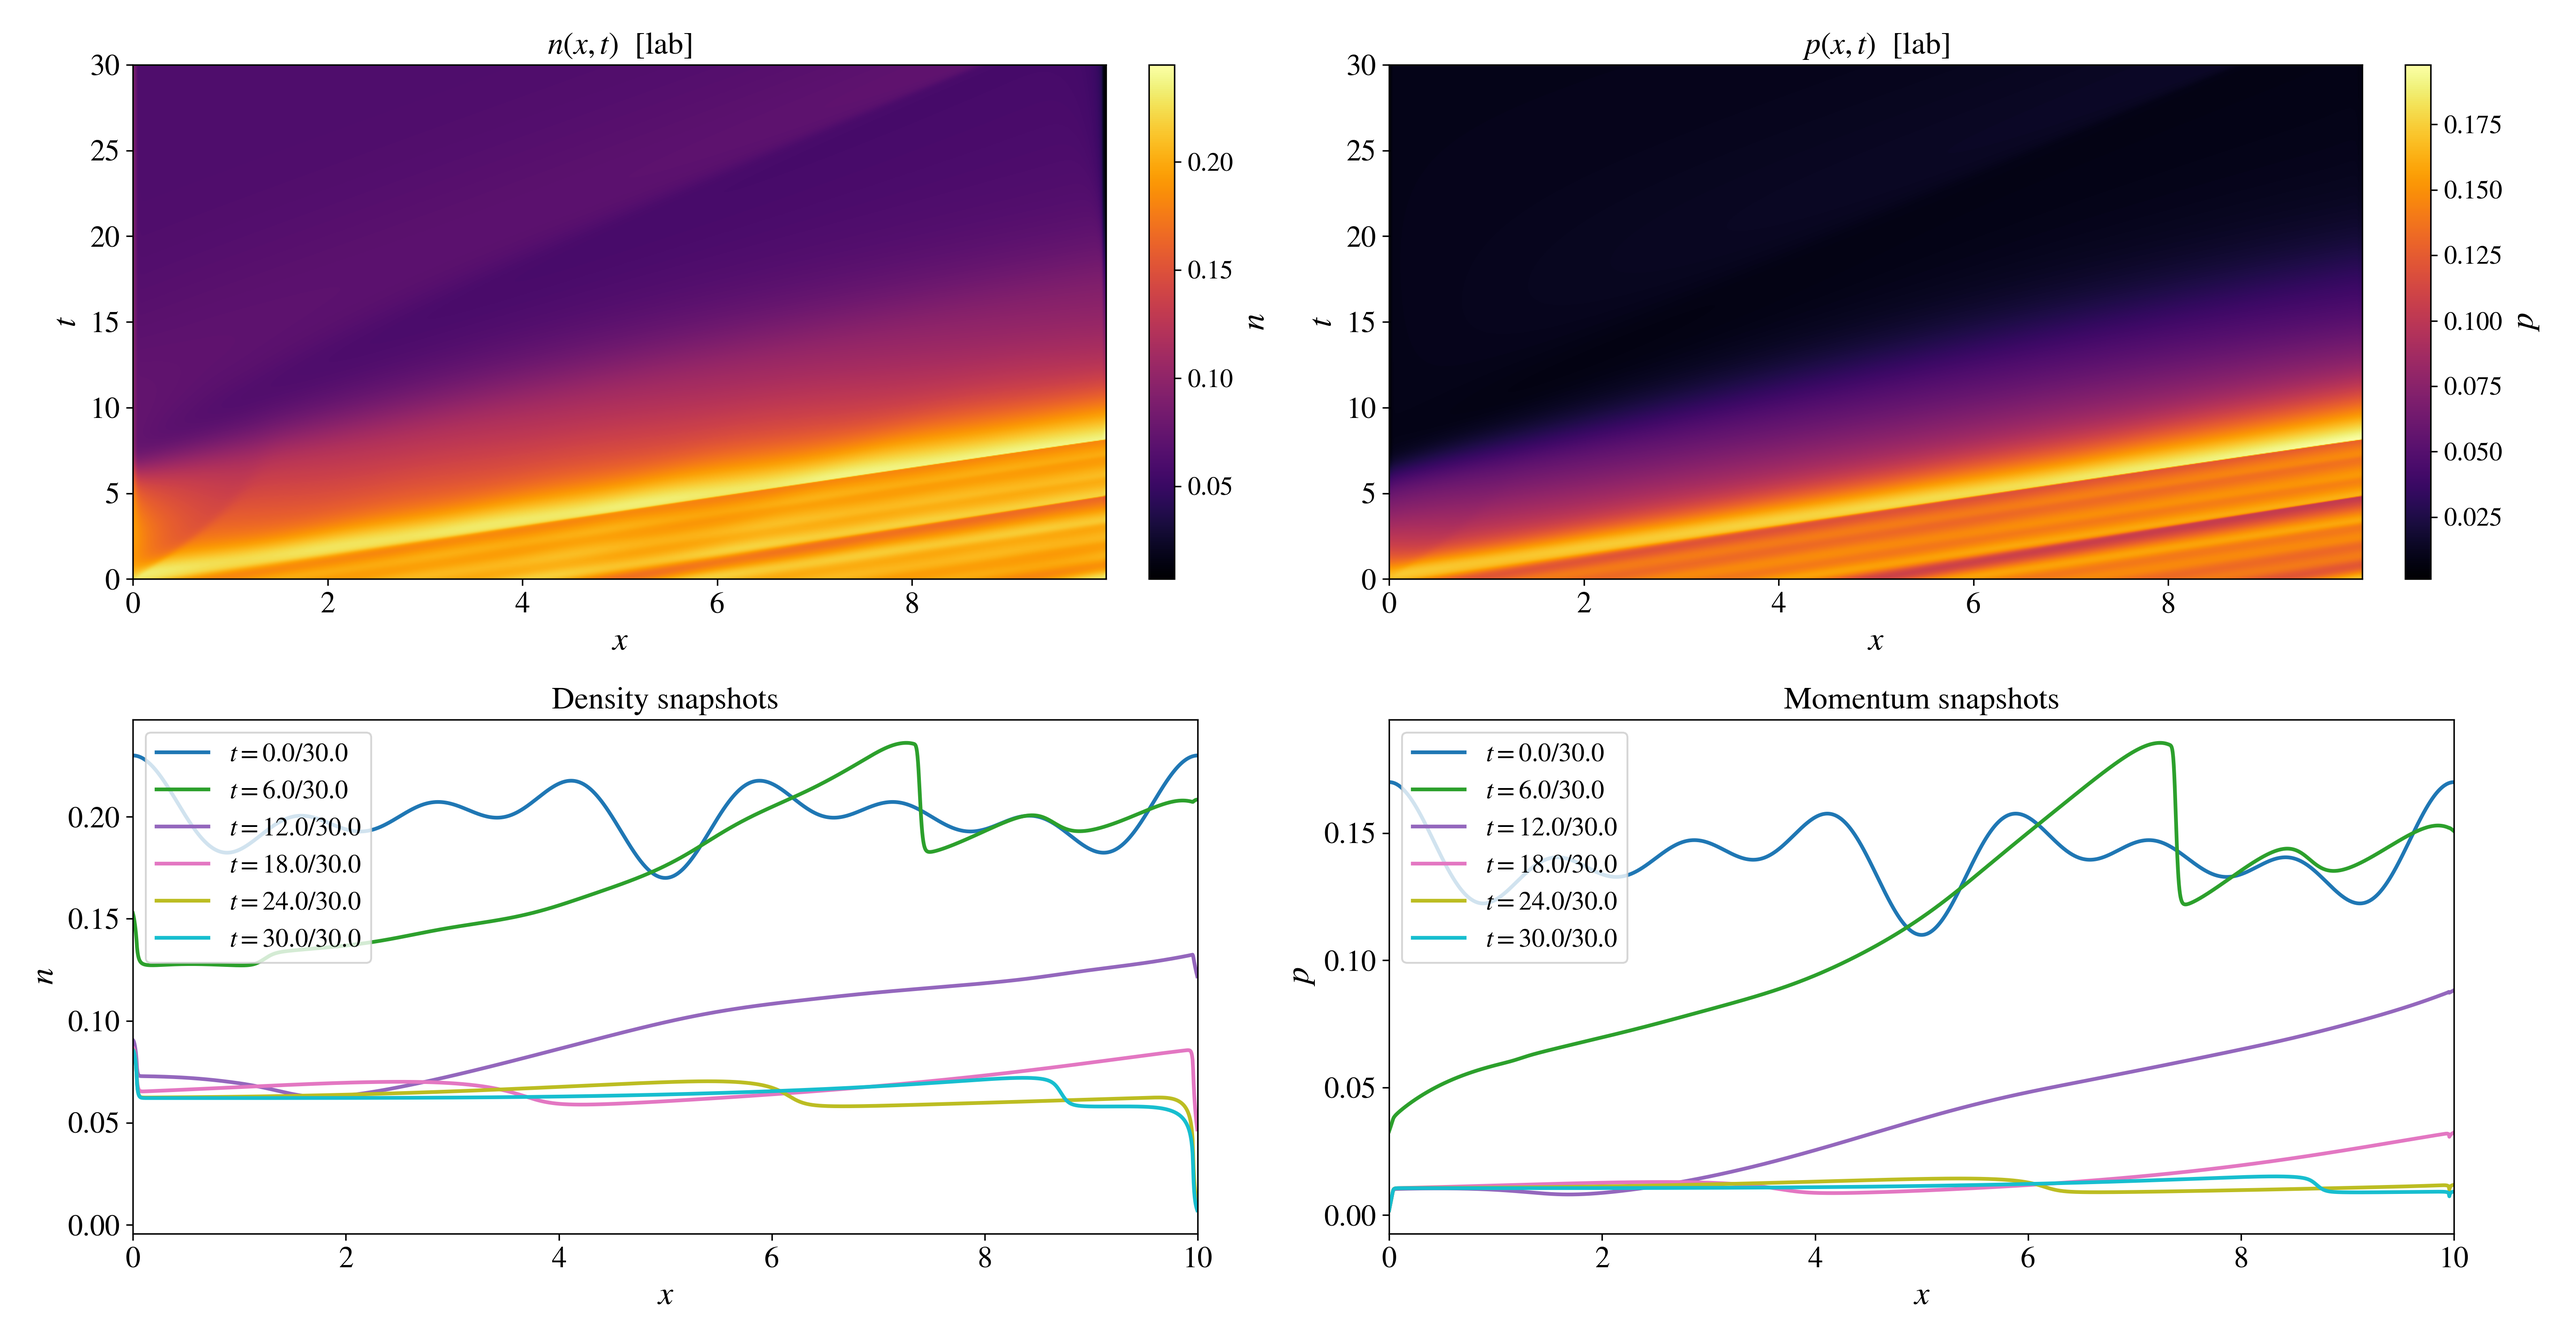
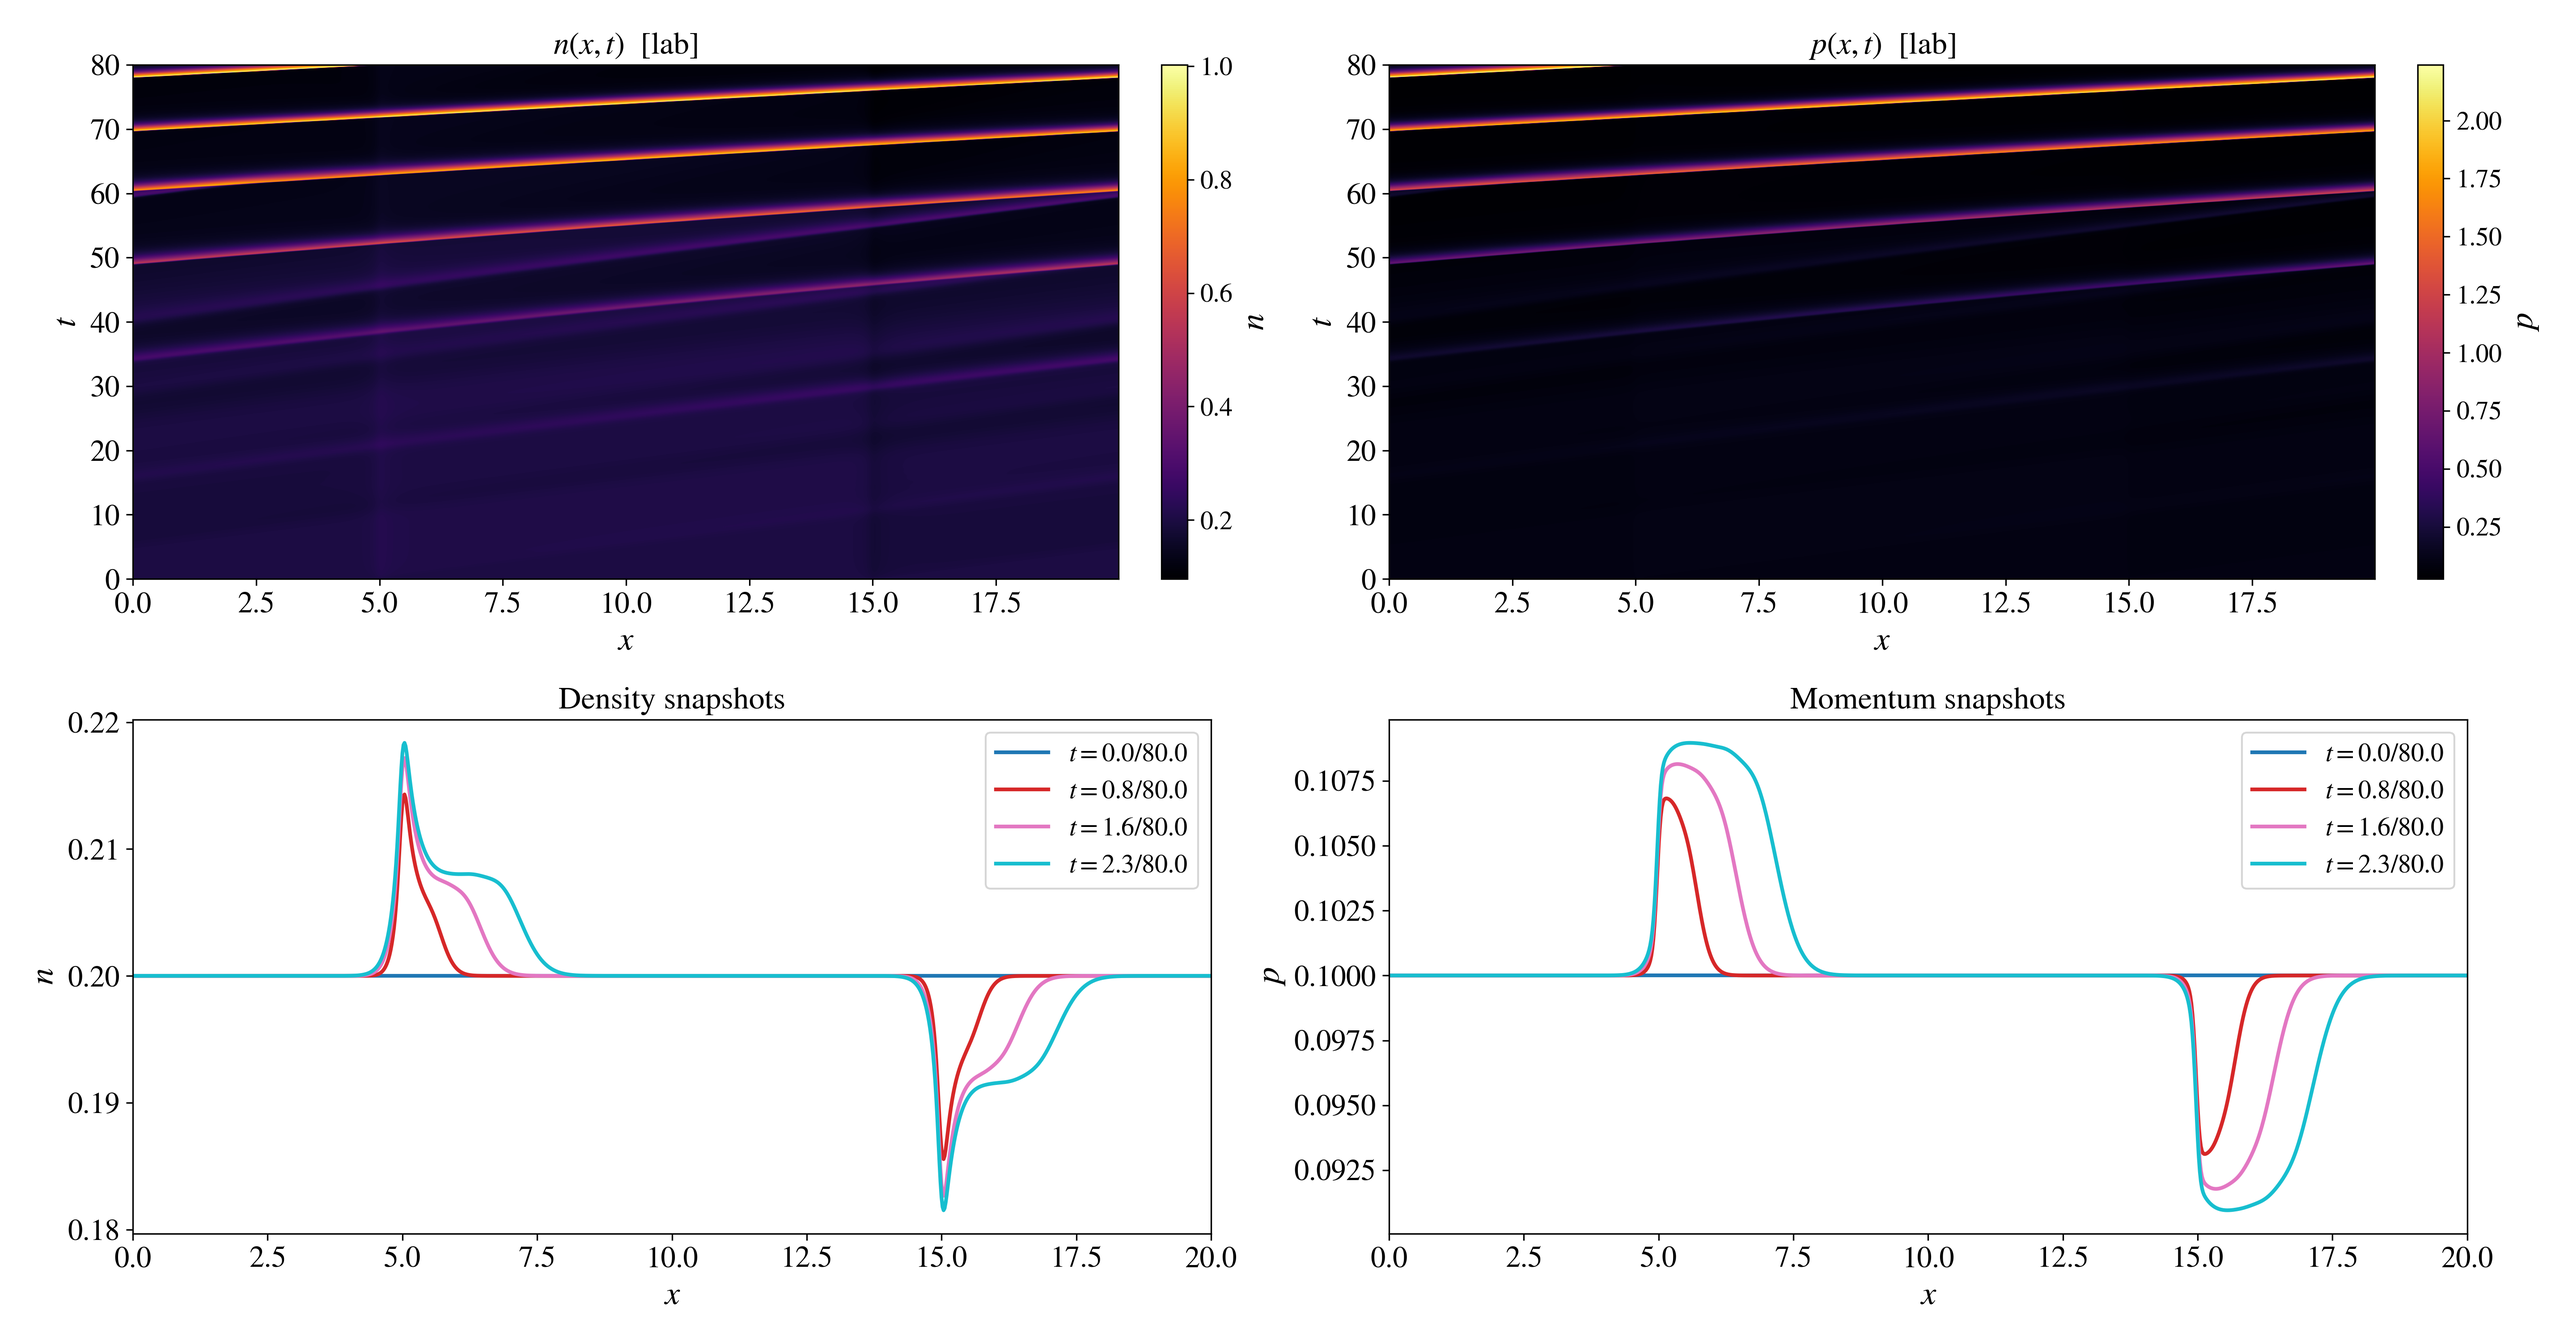
Current inflow and outflow

diff --git a/dn vs u_d/main.py b/dn vs u_d/main.py
@@ -45,33 +45,38 @@ class P:
     maintain_drift: str = "field"
     Kp: float = 0.15
 
-    Dn: float = 0.01
-    Dp: float = 0.1
+    Dn: float = 0.03
+    Dp: float = 0.03
 
-    x0: float = 12.5
+    x0: float = 5
 
     lambda_diss: float = 0.0
     sigma_diss: float = 2.0
     lambda_gauss: float = 0.0
     sigma_gauss: float = 2.0
-    x0_gauss: float = 12.5
+    x0_gauss: float = 5
 
     use_nbar_gaussian: bool = False
     nbar_amp: float = 0.0
     nbar_sigma: float = 120.0
 
     L: float = 10.0
-    Nx: int = 1212
+    Nx: int = 5120
     t_final: float = 50.0
-    n_save: int = 100
+    n_save: int = 1000
     rtol = 1e-4
     atol = 1e-7
     n_floor: float = 1e-7
     dealias_23: bool = True
 
-    seed_amp_n: float = 0.030
+    seed_amp_n: float = 0#0.030
     seed_mode: int = 7
-    seed_amp_p: float = 0.030
+    seed_amp_p: float = 0#0.030
+
+    I_SD: float = 0.0
+    x_source: float = 2.5
+    x_drain: float = 7.5
+    sigma_contact: float = 0.05
 
     outdir: str = "out_drift/small_dissipation_perturbation"
     cmap: str = "inferno"
@@ -82,15 +87,21 @@ dx = None
 k = None
 ik = None
 k2 = None
+_x_grid = None
+_sd_src = None
+_sd_drn = None
+_sd_key = None
 
 def _update_global_arrays():
-    global dx, k, ik, k2, _nz_mask
+    global dx, k, ik, k2, _nz_mask, _x_grid
 
     dx = par.L / par.Nx
     k = 2*np.pi*fftfreq(par.Nx, d=dx)
     ik = 1j*k
     k2 = k**2
     _nz_mask = (k2 != 0)
+    _x_grid = np.linspace(0.0, par.L, par.Nx, endpoint=False)
+    _update_source_drain_profiles()
 
 def Dx(f):  
     if k is None or len(k) != len(f):
@@ -135,6 +146,32 @@ def phi_from_n(n, nbar):
     return (ifft(phi_hat, workers=NTHREADS)).real
 
 def periodic_delta(x, x0, L): return (x - x0 + 0.5*L) % L - 0.5*L
+
+def _normalized_delta_profile(x, x0, L, sigma):
+    x0 = float(x0) % float(L)
+    if sigma is None or sigma <= 0.0:
+        g = np.zeros_like(x)
+        idx = int(np.round(x0 / dx)) % par.Nx
+        g[idx] = 1.0 / dx
+        return g
+    d = periodic_delta(x, x0, L)
+    g = np.exp(-0.5 * (d / sigma)**2)
+    g /= (g.sum() * dx)
+    return g
+
+def _update_source_drain_profiles():
+    global _sd_src, _sd_drn, _sd_key
+    key = (par.Nx, float(par.L), float(par.I_SD != 0.0),
+           float(par.x_source), float(par.x_drain), float(par.sigma_contact))
+    if _sd_key == key:
+        return
+    if par.I_SD == 0.0:
+        _sd_src = None
+        _sd_drn = None
+    else:
+        _sd_src = _normalized_delta_profile(_x_grid, par.x_source, par.L, par.sigma_contact)
+        _sd_drn = _normalized_delta_profile(_x_grid, par.x_drain,  par.L, par.sigma_contact)
+    _sd_key = key
 
 def _power_spectrum_1d(n_slice, L):
     N = n_slice.size
@@ -288,7 +325,11 @@ def rhs(t, y, E_base):
     else:
         E_eff = E_base
 
+    _update_source_drain_profiles()
+
     dn_dt = -Dx(p) + par.Dn * Dxx(n)
+    if par.I_SD != 0.0:
+        dn_dt = dn_dt + par.I_SD * (_sd_src - _sd_drn)
     dn_dt = filter_23(dn_dt)
 
     Pi = Pi0(n_eff) + (p**2)/(par.m*n_eff)
@@ -299,6 +340,8 @@ def rhs(t, y, E_base):
         force_Phi = n_eff * Dx(phi)
 
     dp_dt = -Gamma_spatial(n_eff)*p - grad_Pi + par.e*n_eff*E_eff - force_Phi + par.Dp * Dxx(p)
+    if par.I_SD != 0.0:
+        dp_dt = dp_dt + (par.m * par.u_d * par.I_SD) * (_sd_src - _sd_drn)
     dp_dt = filter_23(dp_dt)
 
     return np.concatenate([dn_dt, dp_dt])
@@ -531,12 +574,12 @@ def run_single_ud_worker(u_d, base_params, worker_id=0):
     local_par.outdir = f"multiple_u_d/w=0.14_modes_3_5_7_L10(lambda={local_par.lambda_diss}, sigma={local_par.sigma_diss}, seed_amp_n={local_par.seed_amp_n}, seed_amp_p={local_par.seed_amp_p})_Dn={Dn_str}_Dp={Dp_str}/out_drift_ud{u_d_str}"
     
     if u_d > 1e-6:
-        local_par.t_final = 20*10.0/u_d
+        local_par.t_final = 4*10.0/u_d
     else:
         local_par.t_final = 50.0
-    local_par.n_save = 512
+    local_par.n_save = 1024
     
-    local_par.Nx = 512
+    local_par.Nx = 512*2
     
     global par
     par = local_par
@@ -575,35 +618,33 @@ def run_single_ud_worker(u_d, base_params, worker_id=0):
         }
 
 def run_multiple_ud():
-    u_d_values = np.arange(0.372, 0.5, 0.002)
+    u_d_values = [0.5]
     
-    print(f"[run_multiple_ud] Running parameter sweep with {len(u_d_values)} u_d values")
-    print(f"[run_multiple_ud] Range: [{u_d_values[0]:.4f}, {u_d_values[-1]:.4f}]")
-    print(f"[run_multiple_ud] Step size: {u_d_values[1] - u_d_values[0]:.4f}")
-    print(f"[run_multiple_ud] u_d values: {u_d_values}")
-
-    print(f"[run_multiple_ud] u_d values to simulate: {u_d_values}")
+    print(f"[run_multiple_ud] Running single simulation with u_d = {u_d_values[0]:.4f}")
     
     base_params = asdict(par)
     
-    n_cpus = mp.cpu_count()
-    n_workers = min(len(u_d_values), max(1, n_cpus - 1))
-    
-    print(f"\n[Parallel] Using {n_workers} parallel workers (out of {n_cpus} CPUs)")
-    print(f"[Parallel] Running {len(u_d_values)} simulations in parallel")
-    print(f"[Parallel] Progress will be shown for each worker simultaneously")
-    print(f"[Parallel] Each worker will update its progress line independently")
+    # n_cpus = mp.cpu_count()
+    # n_workers = min(len(u_d_values), max(1, n_cpus - 1))
+    # 
+    # print(f"\n[Parallel] Using {n_workers} parallel workers (out of {n_cpus} CPUs)")
+    # print(f"[Parallel] Running {len(u_d_values)} simulations in parallel")
+    # print(f"[Parallel] Progress will be shown for each worker simultaneously")
+    # print(f"[Parallel] Each worker will update its progress line independently")
     
     overall_start_time = time.time()
     
-    with mp.Pool(processes=n_workers) as pool:
-        worker_args = [(u_d, base_params, i) for i, u_d in enumerate(u_d_values)]
-        results = pool.starmap(run_single_ud_worker, worker_args)
+    # with mp.Pool(processes=n_workers) as pool:
+    #     worker_args = [(u_d, base_params, i) for i, u_d in enumerate(u_d_values)]
+    #     results = pool.starmap(run_single_ud_worker, worker_args)
+    
+    result = run_single_ud_worker(u_d_values[0], base_params, worker_id=0)
+    results = [result]
     
     overall_elapsed = time.time() - overall_start_time
     
     print(f"\n{'='*60}")
-    print(f"ALL SIMULATIONS COMPLETED!")
+    print(f"SIMULATION COMPLETED!")
     print(f"{'='*60}")
     print(f"Total wall time: {overall_elapsed:.1f}s ({overall_elapsed/60:.1f} minutes)")
     print(f"\nSummary:")
@@ -617,10 +658,10 @@ def run_multiple_ud():
     if successful:
         total_sim_time = sum(r['elapsed_time'] for r in successful)
         avg_time = total_sim_time / len(successful)
-        speedup = total_sim_time / overall_elapsed
+        # speedup = total_sim_time / overall_elapsed
         print(f"  Average simulation time: {avg_time:.1f}s")
         print(f"  Total simulation time (sequential equivalent): {total_sim_time:.1f}s")
-        print(f"  Parallel speedup: {speedup:.2f}x")
+        # print(f"  Parallel speedup: {speedup:.2f}x")
     
     if failed:
         print(f"\nFailed simulations:")
@@ -632,13 +673,13 @@ def run_multiple_ud():
 if __name__ == "__main__":
     par.lambda_diss = 0.0
     par.sigma_diss =  -1.0
-    par.x0 = 12.5
+    par.x0 = 5
     
     par.seed_mode = 7
-    par.seed_amp_n = 0.030
-    par.seed_amp_p = 0.030
+    par.seed_amp_n = 0#0.030
+    par.seed_amp_p = 0#0.030
     
-    par.L = 10.0
+    par.L = 20.0
     par.t_final = 50.0
 
     par.use_nbar_gaussian = False
@@ -646,6 +687,11 @@ if __name__ == "__main__":
     par.include_poisson = False
     par.lambda_gauss = 0.0
     par.sigma_gauss = 2.0
-    par.x0_gauss = 12.5
+    par.x0_gauss = 0
+
+    par.I_SD = 1e-2  # start here; increase if needed
+    par.x_source = par.L/4
+    par.x_drain = 3*par.L/4
+    par.sigma_contact = 0.05
     
     run_multiple_ud()

diff --git a/dn vs u_d/plot_spacetime_from_npz.py b/dn vs u_d/plot_spacetime_from_npz.py
@@ -16,7 +16,7 @@ mpl.rcParams.update({
 })
 
 # Load data
-data_file = "out_ds_open_unstable_M07/data_m07_ud0p7000_ds_open_unstable_M07.npz"
+data_file = r"D:\Рабочая папка\GitHub\electronic-kapitsa-waves\dn vs u_d\multiple_u_d\w=0.14_modes_3_5_7_L10(lambda=0.0, sigma=-1.0, seed_amp_n=0, seed_amp_p=0)_Dn=0p03_Dp=0p03\out_drift_ud0p5000\data_m07_ud0p5000_ud0.5.npz"
 data = np.load(data_file)
 
 # Extract data
@@ -61,7 +61,7 @@ cbar2 = plt.colorbar(im2, ax=ax2, label="$p$", fraction=0.046, pad=0.04)
 cbar2.ax.tick_params(labelsize=14)
 
 # Plot n snapshots (bottom left)
-percentages = [0, 20, 40, 60, 80, 100]
+percentages = [0,1,2,3]#[0, 20, 40, 60, 80, 100]
 colors = plt.cm.tab10(np.linspace(0, 1, len(percentages)))
 for i, pct in enumerate(percentages):
     idx = int((pct / 100) * (len(t) - 1))
